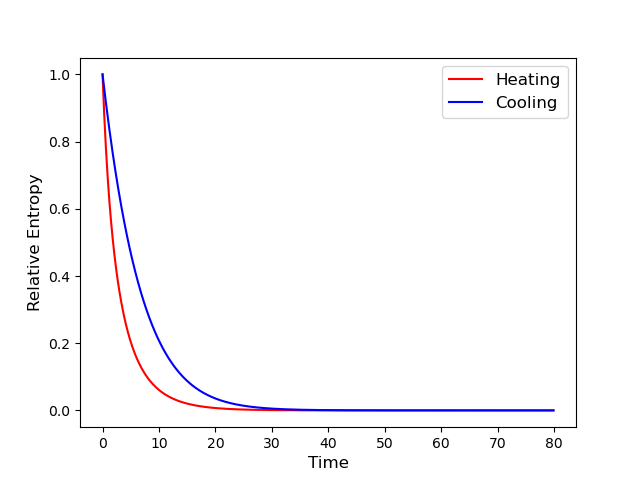
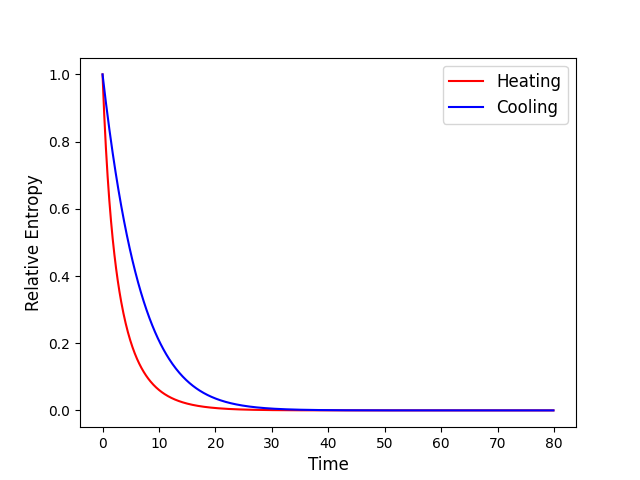
thermal

diff --git a/Gaussian/thermal-state/thermal_state.py b/Gaussian/thermal-state/thermal_state.py
@@ -36,7 +36,7 @@ def Wigner_Fisher_Info(w, beta_i, beta_f, gamma, t):
 
 def Velocity(Iw):
 
-    return 0.5 * np.sqrt(Iw)
+    return np.sqrt(Iw/2)
     
 
 def Distance(w, beta_i, beta_f, gamma, t):
@@ -56,7 +56,7 @@ def EntropyProduction(w, beta_i, beta_f, gamma, t):
     
     delta_beta, d_delta_beta = Delta_Beta(w, beta_i, beta_f, gamma, t)
     
-    Sprod = - (d_delta_beta/ff) + (d_delta_beta/delta_beta)
+    Sprod = (d_delta_beta/delta_beta) - (d_delta_beta/ff)
     
     return Sprod
 
@@ -240,7 +240,6 @@ plt.plot(tlist, completion_heating, color='red', label='Heating')
 plt.plot(tlist, completion_cooling, color='blue', label='Cooling')
 plt.ylabel('Degree of Completion', fontsize=12)
 plt.xlabel('Time', fontsize=12)
-plt.xscale('log')
 plt.legend(fontsize=12)
 plt.show()
 